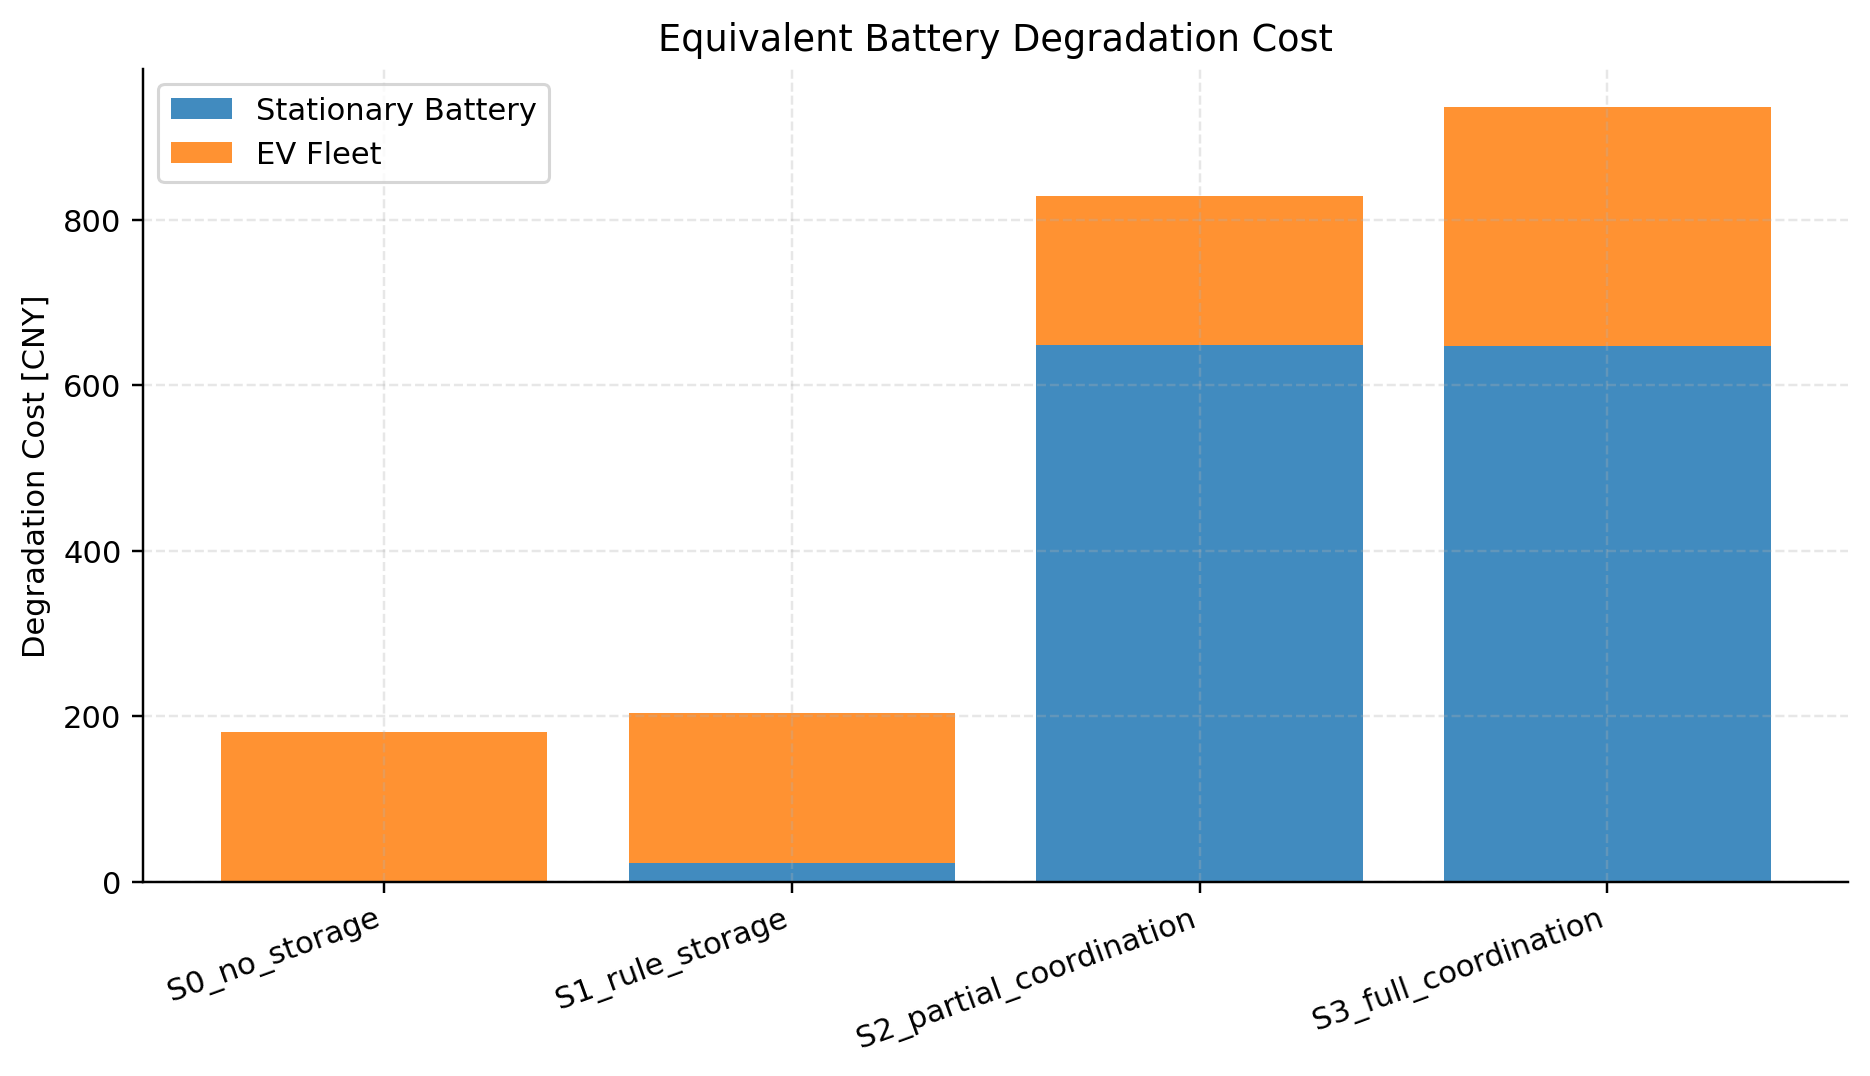
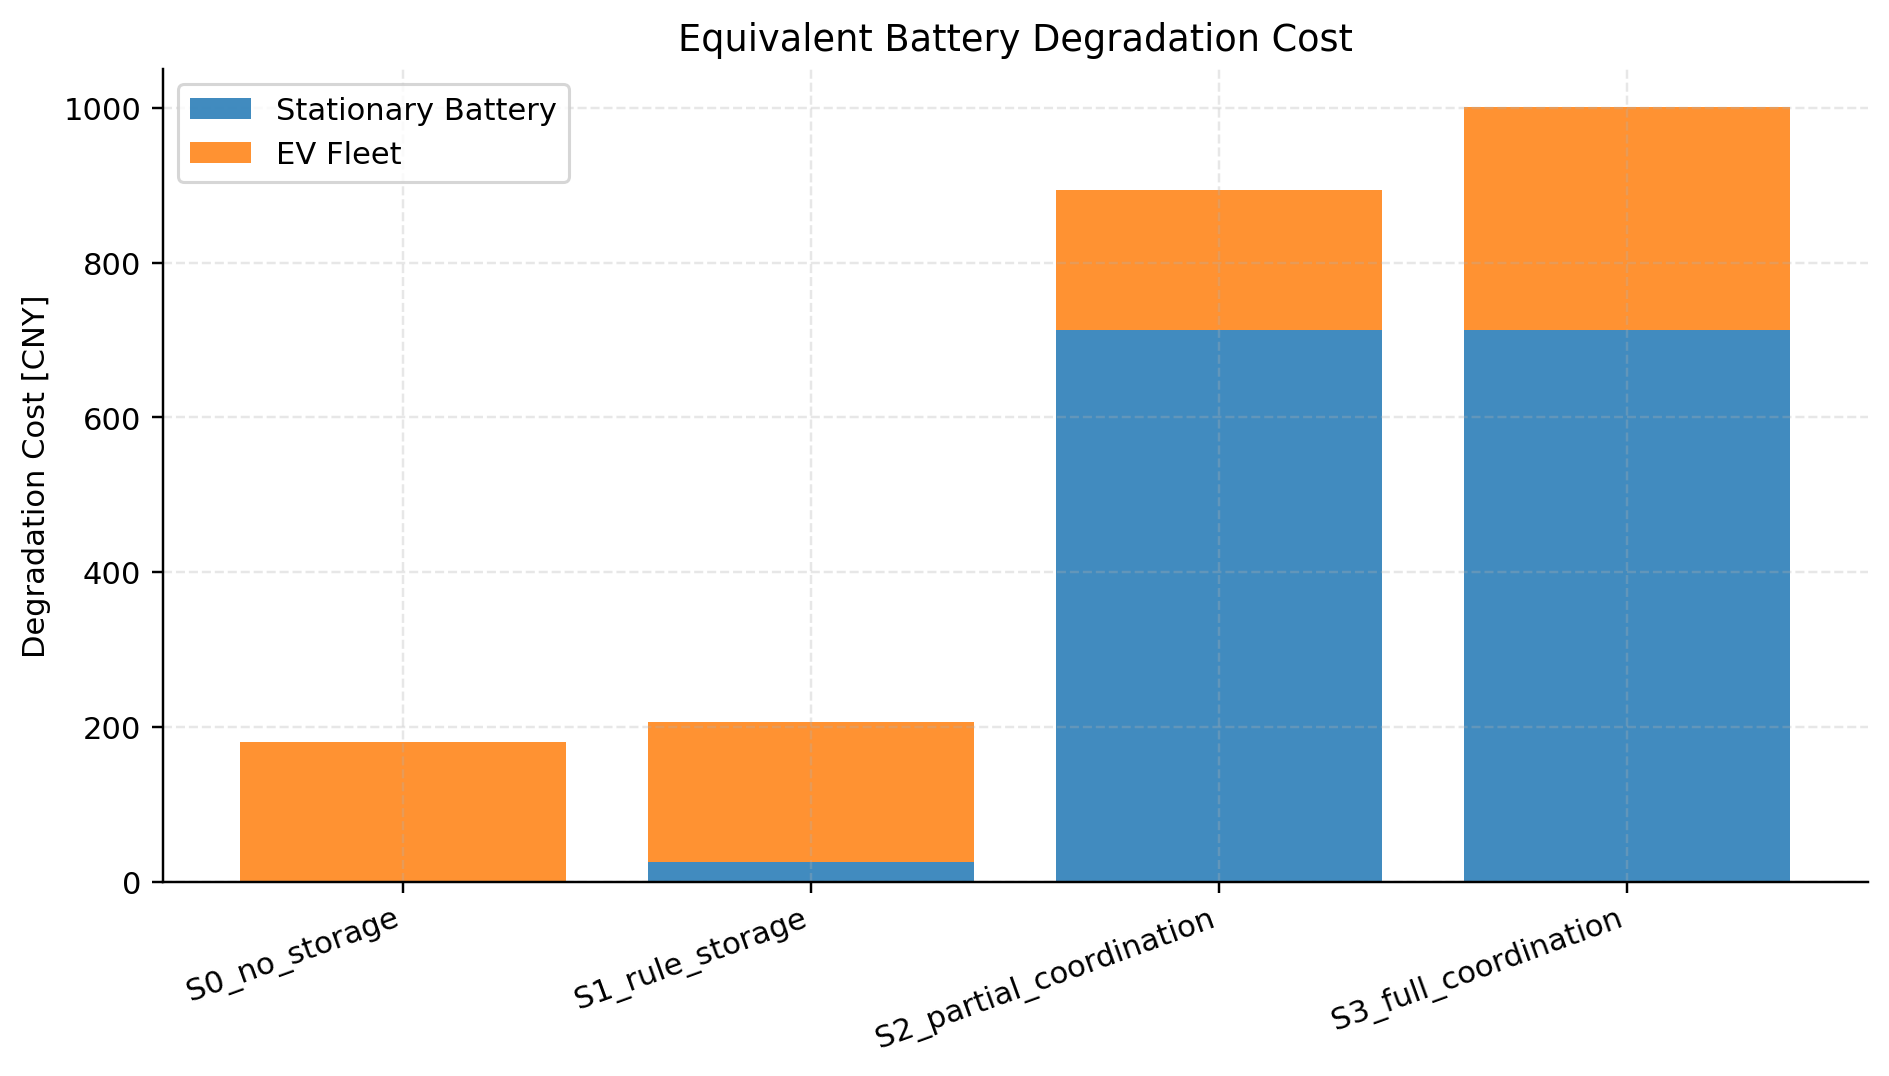
[fix] 修改了固定储能硬编码的问题

diff --git a/B/problem2/scripts/solve_degradation_indicator.py b/B/problem2/scripts/solve_degradation_indicator.py
@@ -15,9 +15,9 @@ import matplotlib.pyplot as plt
 import pandas as pd
 
 from degradation_model import (
-    DEFAULT_STATIONARY_BATTERY_DEG_COST,
     evaluate_scheme,
     load_ev_degradation_parameter_summary,
+    load_stationary_battery_degradation_cost,
     load_problem1_scheme,
     result_to_dict,
 )
@@ -88,7 +88,7 @@ def write_summary(metrics: pd.DataFrame, ev_param_summary: pd.DataFrame, out_pat
         "其中 Δt = 0.25 h。该指标保持线性，便于后续直接加入线性规划目标函数。",
         "",
         "2. 参数设定",
-        f"固定储能单位吞吐寿命成本暂取：{battery_unit_cost:.4f} 元/kWh。",
+        f"固定储能单位吞吐寿命成本取自 asset_parameters.csv：{battery_unit_cost:.4f} 元/kWh。",
         "EV 单位吞吐寿命成本使用 ev_sessions.csv 中的 degradation_cost_cny_per_kwh_throughput 字段。",
         "",
         "EV 寿命成本参数按车型统计：",
@@ -109,14 +109,18 @@ def main() -> None:
     parser.add_argument("--problem1-results-dir", type=Path, default=Path(__file__).resolve().parents[2] / "problem1" / "results")
     parser.add_argument("--data-dir", type=Path, default=Path(__file__).resolve().parents[2] / "B_data")
     parser.add_argument("--out-dir", type=Path, default=Path(__file__).resolve().parents[1] / "results")
-    parser.add_argument("--battery-unit-cost", type=float, default=DEFAULT_STATIONARY_BATTERY_DEG_COST)
+    parser.add_argument("--battery-unit-cost", type=float, default=None)
     args = parser.parse_args()
+
+    battery_unit_cost = args.battery_unit_cost
+    if battery_unit_cost is None:
+        battery_unit_cost = load_stationary_battery_degradation_cost(args.data_dir)
 
     # 逐个读取第一问结果，并把调度功率换算成寿命损耗指标。
     rows = []
     for scheme in SCHEMES:
         schedule, ev_result = load_problem1_scheme(args.problem1_results_dir, scheme)
-        rows.append(result_to_dict(evaluate_scheme(scheme, schedule, ev_result, args.data_dir, args.battery_unit_cost)))
+        rows.append(result_to_dict(evaluate_scheme(scheme, schedule, ev_result, args.data_dir, battery_unit_cost)))
     metrics = pd.DataFrame(rows)
 
     args.out_dir.mkdir(parents=True, exist_ok=True)
@@ -128,7 +132,7 @@ def main() -> None:
     metrics.to_csv(args.out_dir / "p2_q1_degradation_metrics.csv", index=False)
     ev_param_summary.to_csv(args.out_dir / "p2_q1_ev_degradation_parameters.csv", index=False)
     plot_degradation_metrics(metrics, fig_dir)
-    write_summary(metrics, ev_param_summary, args.out_dir / "p2_q1_summary.txt", args.battery_unit_cost)
+    write_summary(metrics, ev_param_summary, args.out_dir / "p2_q1_summary.txt", battery_unit_cost)
 
     print((args.out_dir / "p2_q1_summary.txt").read_text(encoding="utf-8"))
     print(f"\nFigures saved to: {fig_dir}")

diff --git a/B/problem2/scripts/degradation_model.py b/B/problem2/scripts/degradation_model.py
@@ -15,9 +15,9 @@ import pandas as pd
 # 附件数据是 15 分钟分辨率，因此功率 kW 转电量 kWh 时乘以 0.25 h。
 DT = 0.25
 
-# 固定储能没有像 EV 一样给出逐设备寿命成本，这里先采用一个可解释的基准值。
-# 后续做敏感性分析时，可以通过命令行参数 --battery-unit-cost 改变该值。
-DEFAULT_STATIONARY_BATTERY_DEG_COST = 0.05
+# 固定储能寿命成本优先使用 asset_parameters.csv 中的给定值。
+# 这里的默认值只作为兜底，主入口脚本会从数据表读取 0.055 元/kWh。
+DEFAULT_STATIONARY_BATTERY_DEG_COST = 0.055
 
 
 @dataclass(frozen=True)
@@ -134,6 +134,17 @@ def load_problem1_scheme(problem1_results_dir: Path, scheme: str) -> tuple[pd.Da
     schedule = pd.read_csv(problem1_results_dir / f"{scheme}_schedule.csv", parse_dates=["timestamp"])
     ev_result = pd.read_csv(problem1_results_dir / f"{scheme}_ev_results.csv")
     return schedule, ev_result
+
+
+def load_stationary_battery_degradation_cost(data_dir: Path) -> float:
+    """从 asset_parameters.csv 读取固定储能单位吞吐寿命成本。"""
+
+    asset = pd.read_csv(data_dir / "asset_parameters.csv")
+    key = "stationary_battery_degradation_cost_cny_per_kwh_throughput"
+    matched = asset.loc[asset["parameter"] == key, "value"]
+    if matched.empty:
+        return DEFAULT_STATIONARY_BATTERY_DEG_COST
+    return float(matched.iloc[0])
 
 
 def load_ev_degradation_parameter_summary(data_dir: Path) -> pd.DataFrame:

diff --git a/B/第二问建模计划.md b/B/第二问建模计划.md
@@ -128,15 +128,15 @@ C_ev_deg = Σ_i c_ev_deg[i] × Σ_t (P_ev_ch[i,t] + P_ev_dis[i,t]) Δt
 - `c_bat_deg`：固定储能单位吞吐损耗成本；
 - `c_ev_deg[i]`：第 `i` 辆 EV 的单位吞吐损耗成本。
 
-EV 的 `c_ev_deg[i]` 可以优先使用 `ev_sessions.csv` 中的 `degradation_cost_cny_per_kwh` 字段。
+EV 的 `c_ev_deg[i]` 使用 `ev_sessions.csv` 中的 `degradation_cost_cny_per_kwh_throughput` 字段。
 
-固定储能的 `c_bat_deg` 如果数据没有直接给出，可以根据电池更换成本和循环寿命估算：
+固定储能的 `c_bat_deg` 使用 `asset_parameters.csv` 中的给定字段：
 
 ```text
-c_bat_deg = 电池单位容量投资成本 / 等效循环寿命 / 2
+stationary_battery_degradation_cost_cny_per_kwh_throughput = 0.055 元/kWh
 ```
 
-如果缺少投资成本，可设定合理参数并做敏感性分析。
+因此第二问第 1 小问不需要再人为假设固定储能寿命成本参数。
 
 ### Step 2：建立考虑寿命损耗的 S4 优化模型
 
@@ -281,41 +281,39 @@ C_deg = c_deg × Σ 充放电吞吐量
 
 ## 6. 固定储能寿命成本参数建议
 
-EV 的寿命成本可以使用数据字段：
+附件已经给出了固定储能和 EV 的单位吞吐寿命成本，因此本题优先使用数据表参数，不再额外估算。
+
+固定储能寿命成本字段位于：
 
 ```text
-degradation_cost_cny_per_kwh
+asset_parameters.csv
 ```
 
-固定储能如果没有直接寿命成本字段，需要估算。
-
-一种合理写法：
-
-设固定储能单位容量投资成本为 `K_bat`，循环寿命为 `N_cycle`，可用放电深度为 `DOD`，则单位吞吐损耗成本为：
+字段为：
 
 ```text
-c_bat_deg = K_bat / (2 × N_cycle × DOD)
+stationary_battery_degradation_cost_cny_per_kwh_throughput = 0.055 元/kWh
 ```
 
-解释：
-
-- 一次完整循环包含一次充电和一次放电；
-- 吞吐量按充电量和放电量之和计算，所以分母有 `2`；
-- `DOD` 表示有效循环深度。
-
-如果论文不想引入太多外部参数，也可以直接设定：
+EV 寿命成本字段位于：
 
 ```text
-c_bat_deg = 0.05 元/kWh
+ev_sessions.csv
 ```
 
-然后做敏感性分析：
+字段为：
 
 ```text
-c_bat_deg ∈ {0.02, 0.05, 0.10, 0.20} 元/kWh
+degradation_cost_cny_per_kwh_throughput
 ```
 
-观察固定储能和 EV 调度行为如何变化。
+这样固定储能和 EV 都可以用统一公式计算：
+
+```text
+C_deg = c_deg × E_throughput
+```
+
+后续如需分析参数不确定性，可以围绕表中给定值做敏感性分析，例如固定储能取 `0.8倍、1.0倍、1.2倍`。
 
 ---
 

diff --git a/B/problem2/README.md b/B/problem2/README.md
@@ -39,10 +39,16 @@ E_throughput = Σ(P_charge + P_discharge) × Δt
 C_degradation = c_deg × E_throughput
 ```
 
-固定储能单位吞吐寿命成本暂取：
+固定储能单位吞吐寿命成本来自：
 
 ```text
-0.05 元/kWh
+B/B_data/asset_parameters.csv
+```
+
+字段：
+
+```text
+stationary_battery_degradation_cost_cny_per_kwh_throughput = 0.055 元/kWh
 ```
 
 EV 单位吞吐寿命成本来自：
